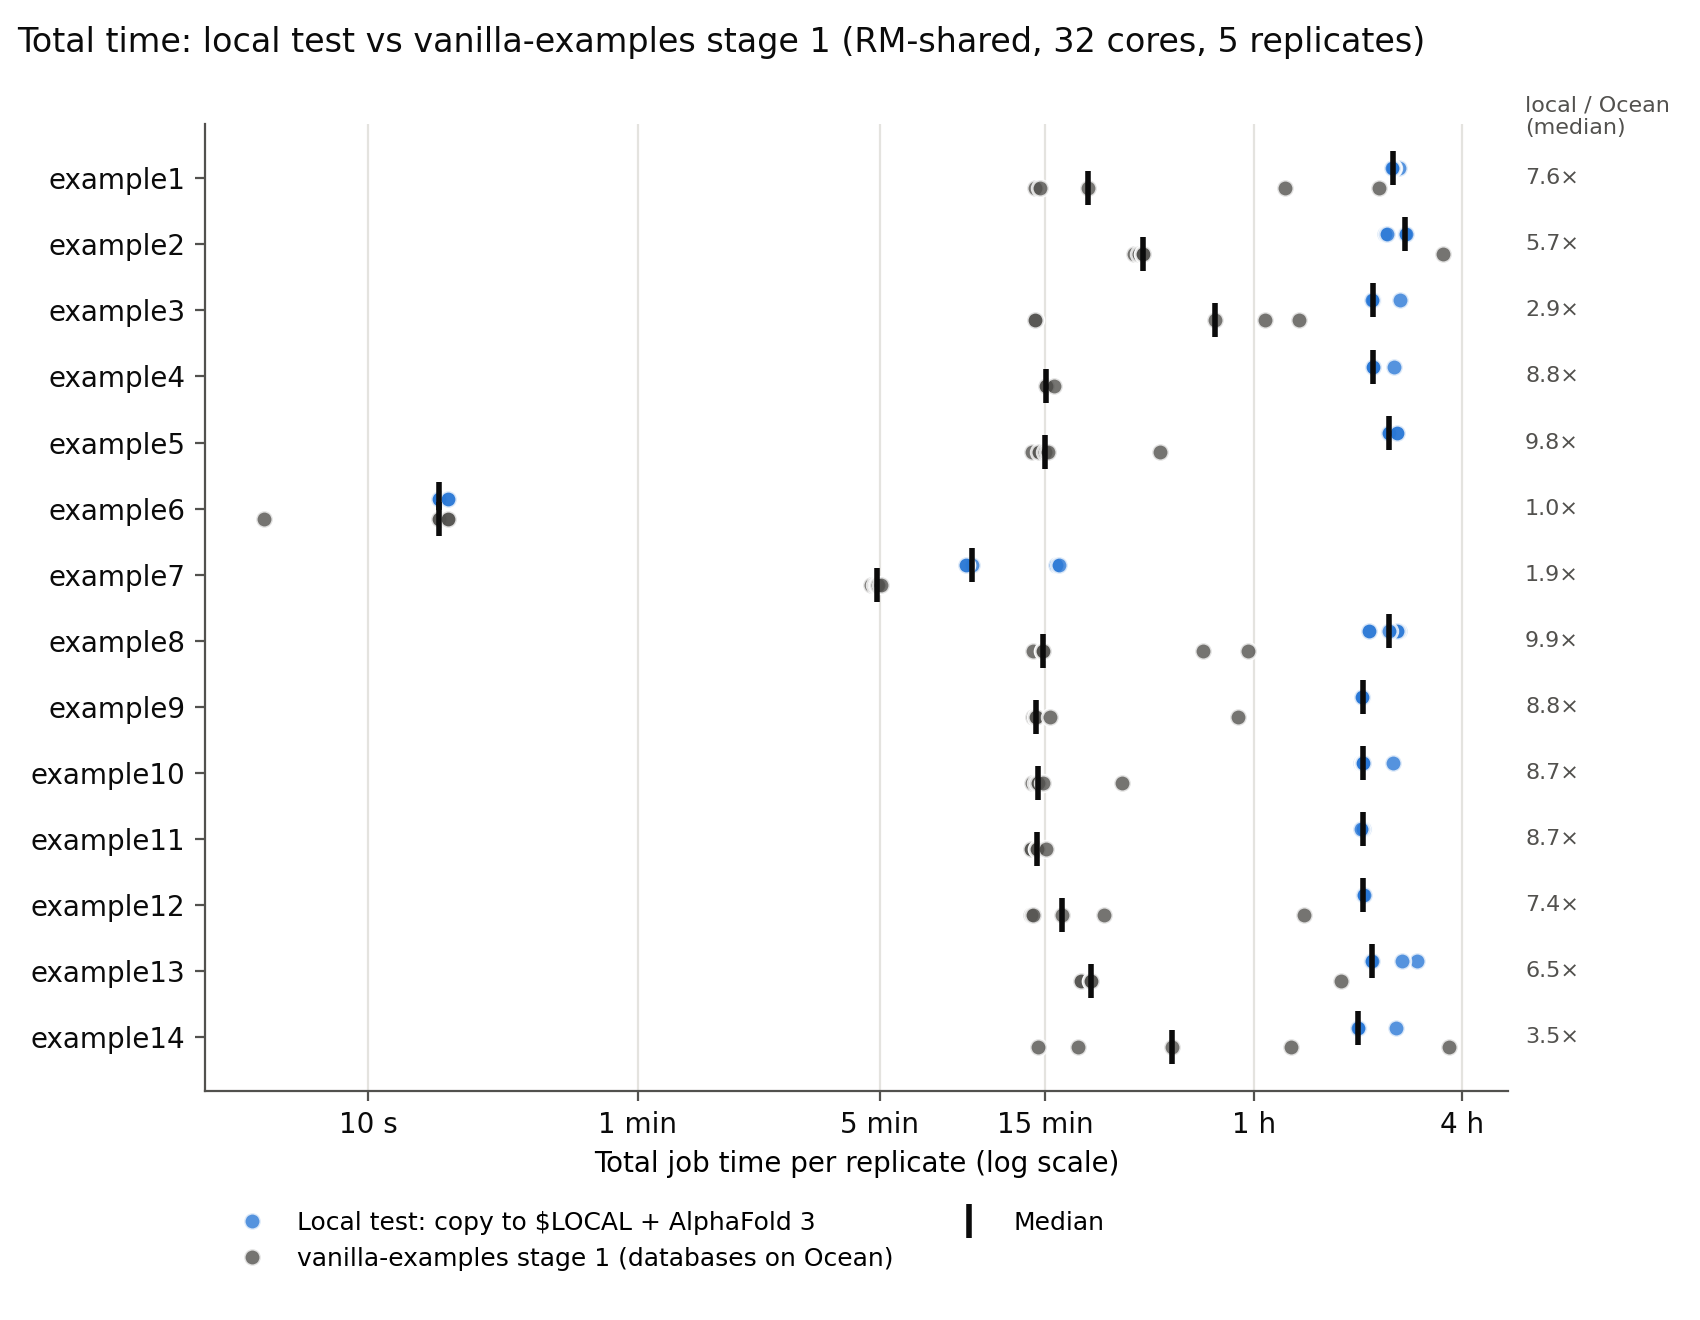
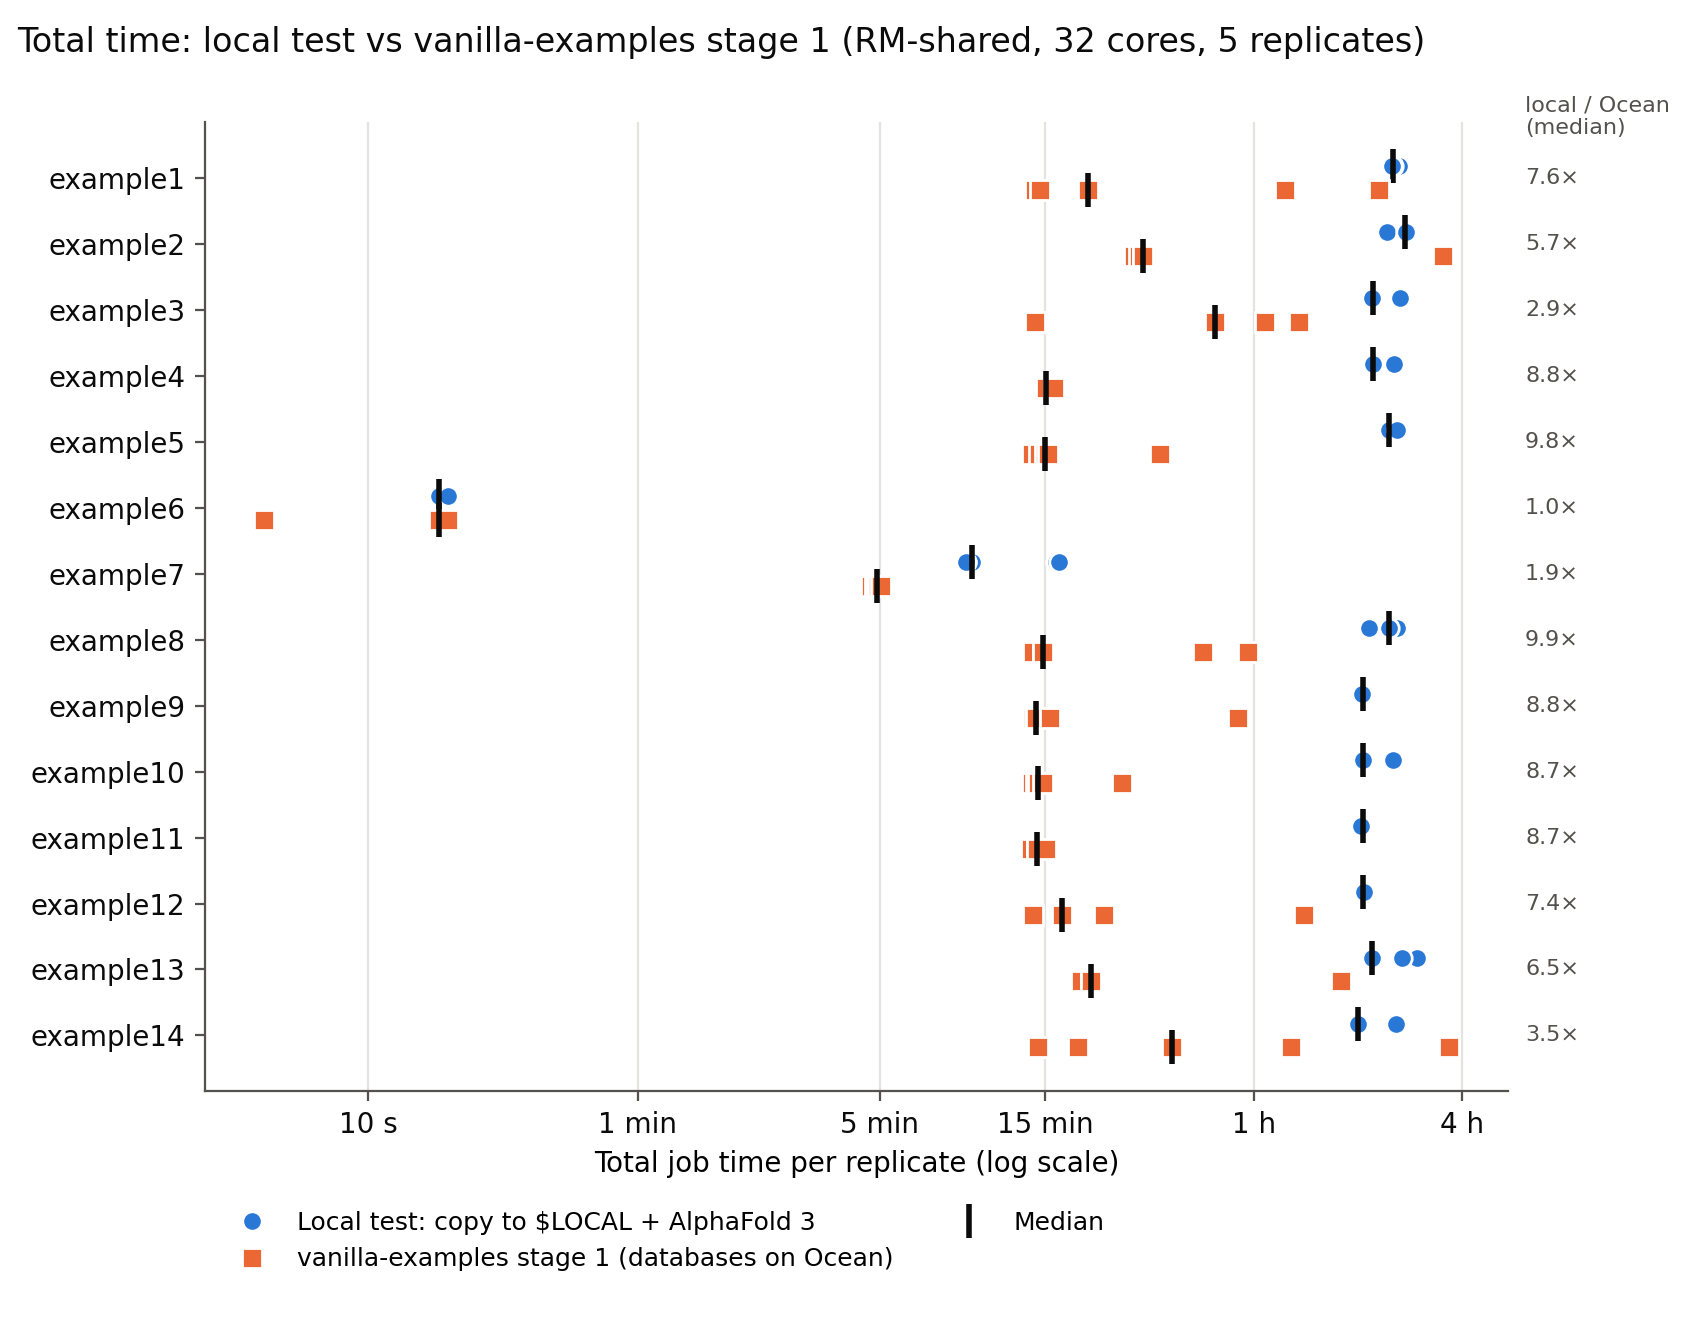
local-test: distinct colors and shapes for the total time plot

diff --git a/local-test/plot_results.py b/local-test/plot_results.py
@@ -176,15 +176,16 @@ def plot_total(total, ocean):
     names = sorted(total, key=number, reverse=True)  # example1 at the top
     fig, ax = plt.subplots(figsize=(8.5, 6.6))
     for y, n in enumerate(names):
-        for vals, color, dy, label in (
-                (total[n], COPY, 0.15,
+        # Shape as well as color, so the series stay apart in grayscale.
+        for vals, color, marker, dy, label in (
+                (total[n], COPY, "o", 0.18,
                  "Local test: copy to $LOCAL + AlphaFold 3"),
-                (ocean.get(n, []), MUTED, -0.15,
+                (ocean.get(n, []), AF3, "s", -0.18,
                  "vanilla-examples stage 1 (databases on Ocean)")):
             if not vals:
                 continue
-            ax.plot(vals, [y + dy] * len(vals), "o", ms=6, color=color,
-                    alpha=0.8, mec="white", mew=1,
+            ax.plot(vals, [y + dy] * len(vals), marker, ms=7, color=color,
+                    mec="white", mew=1,
                     label=label if y == 0 else None)
             ax.plot(statistics.median(vals), y + dy, "|", ms=12, mew=2,
                     color=INK, label="Median" if y == 0 and dy < 0 else None)
